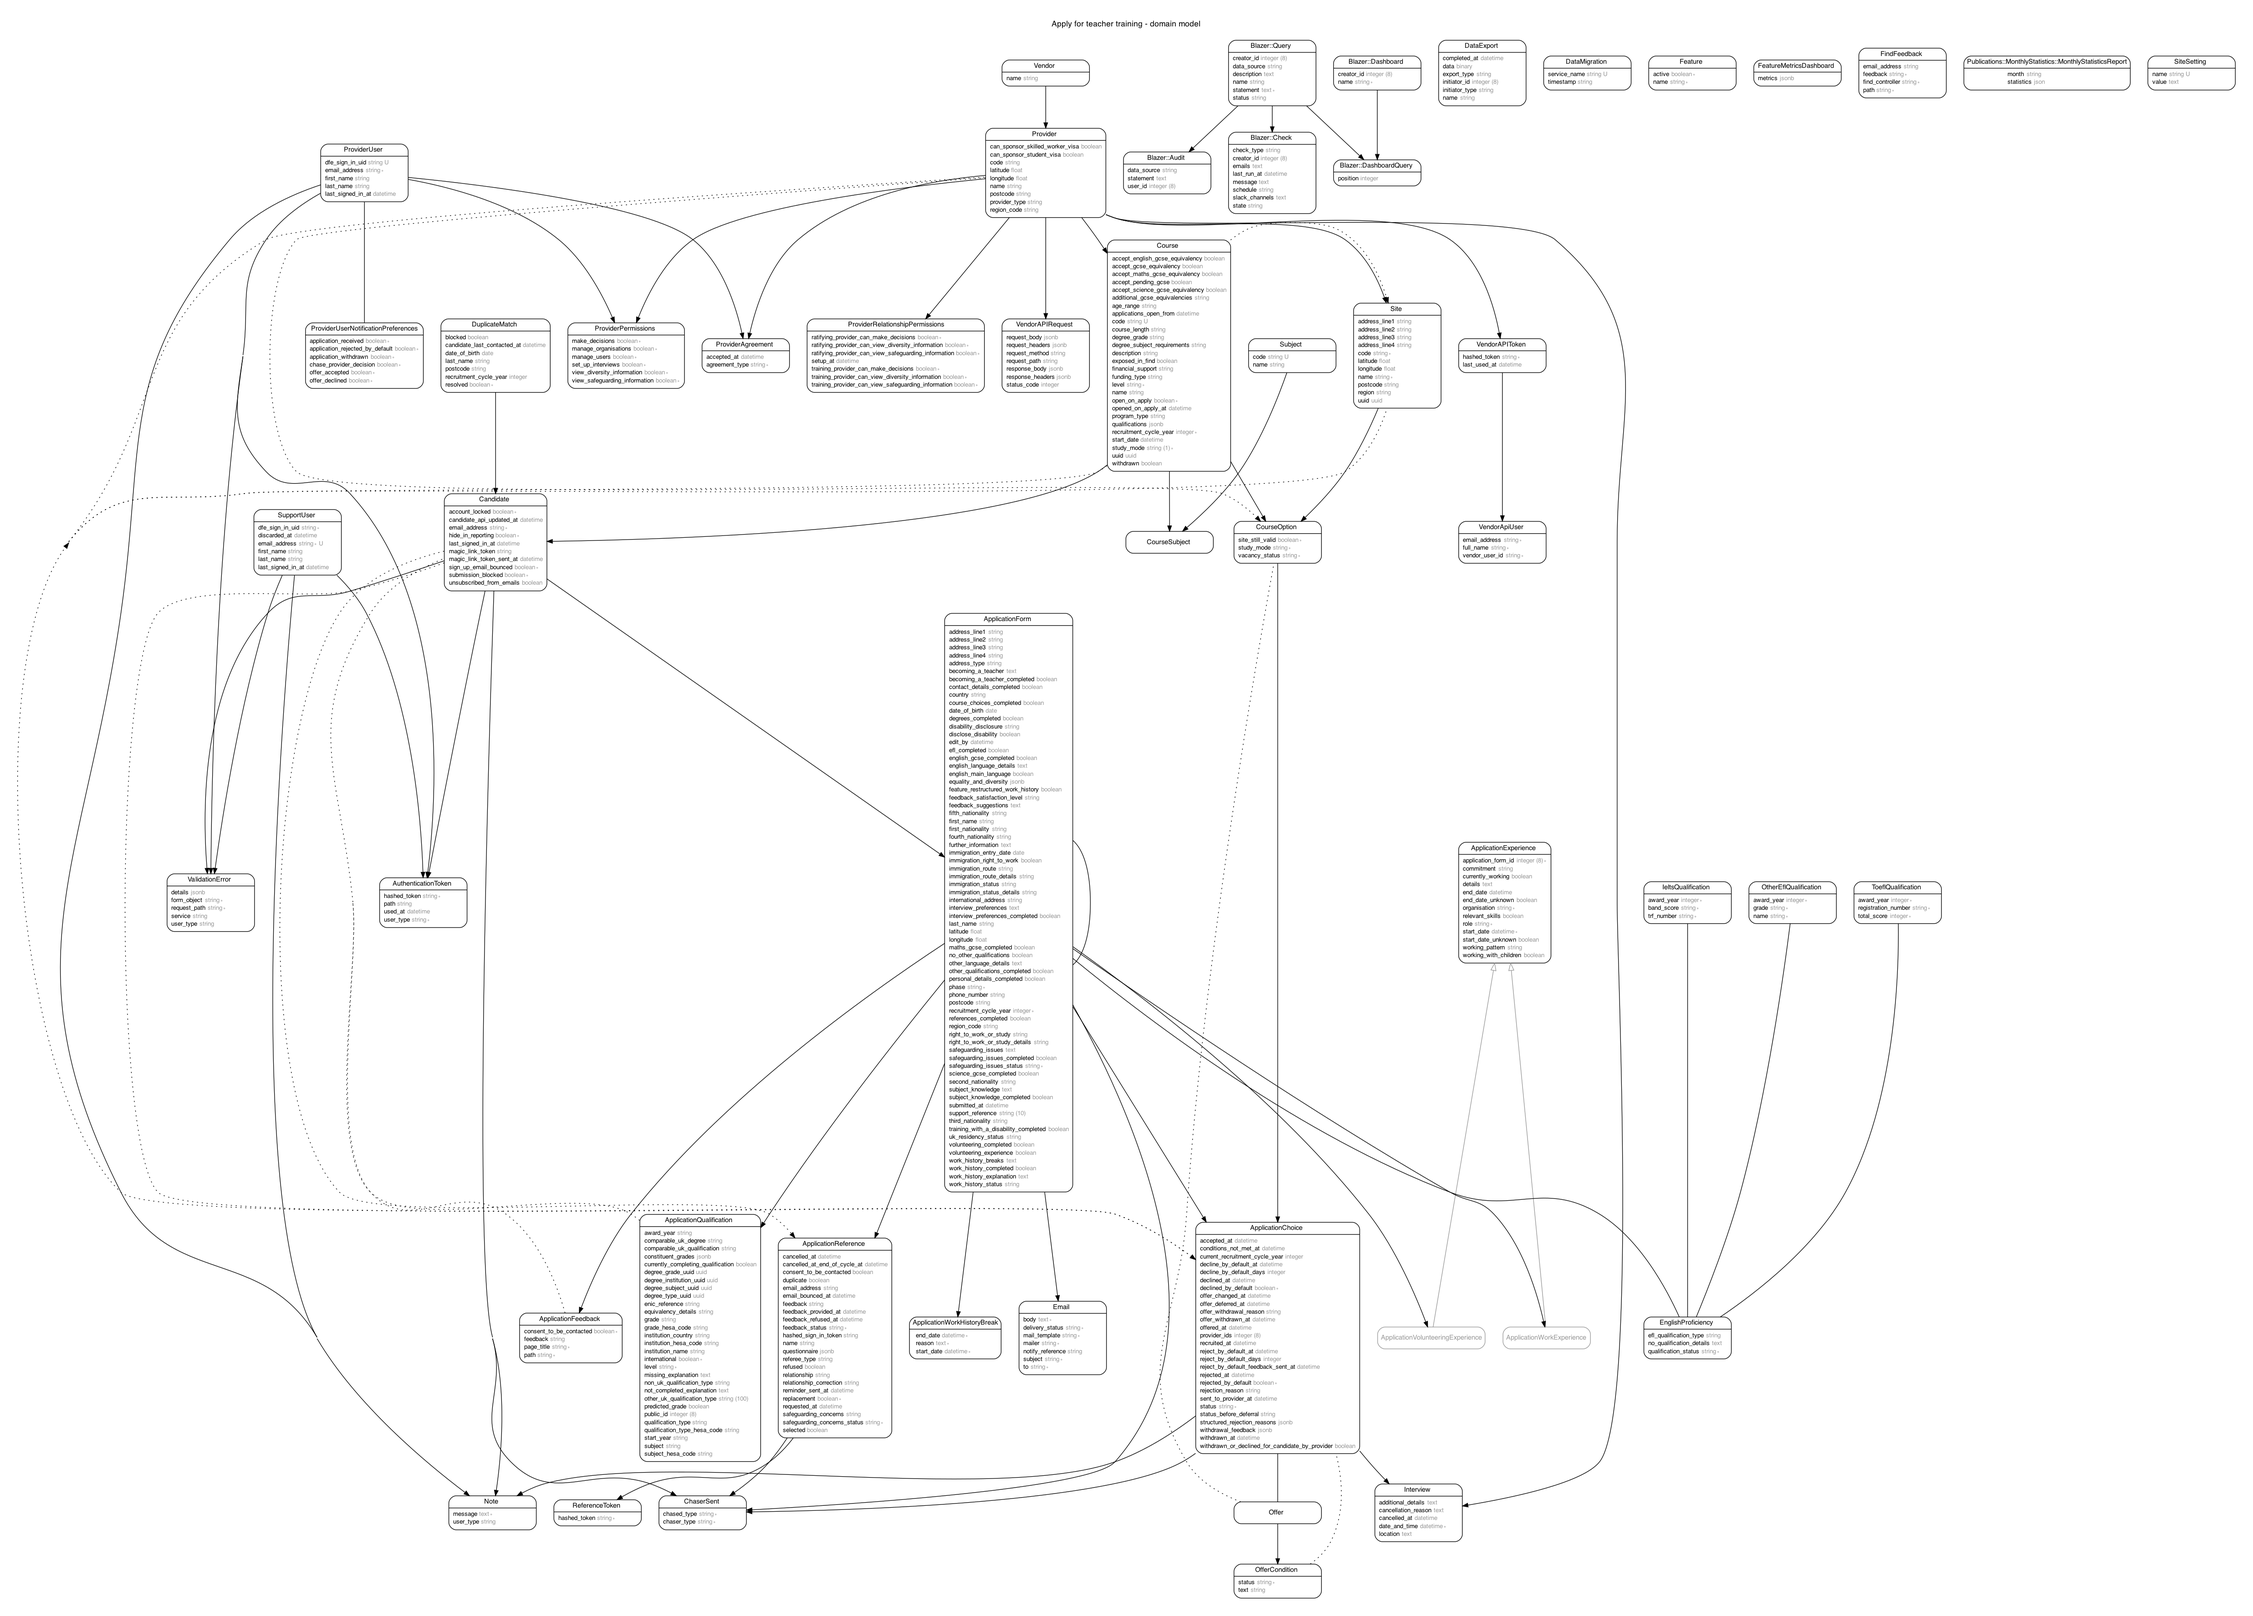
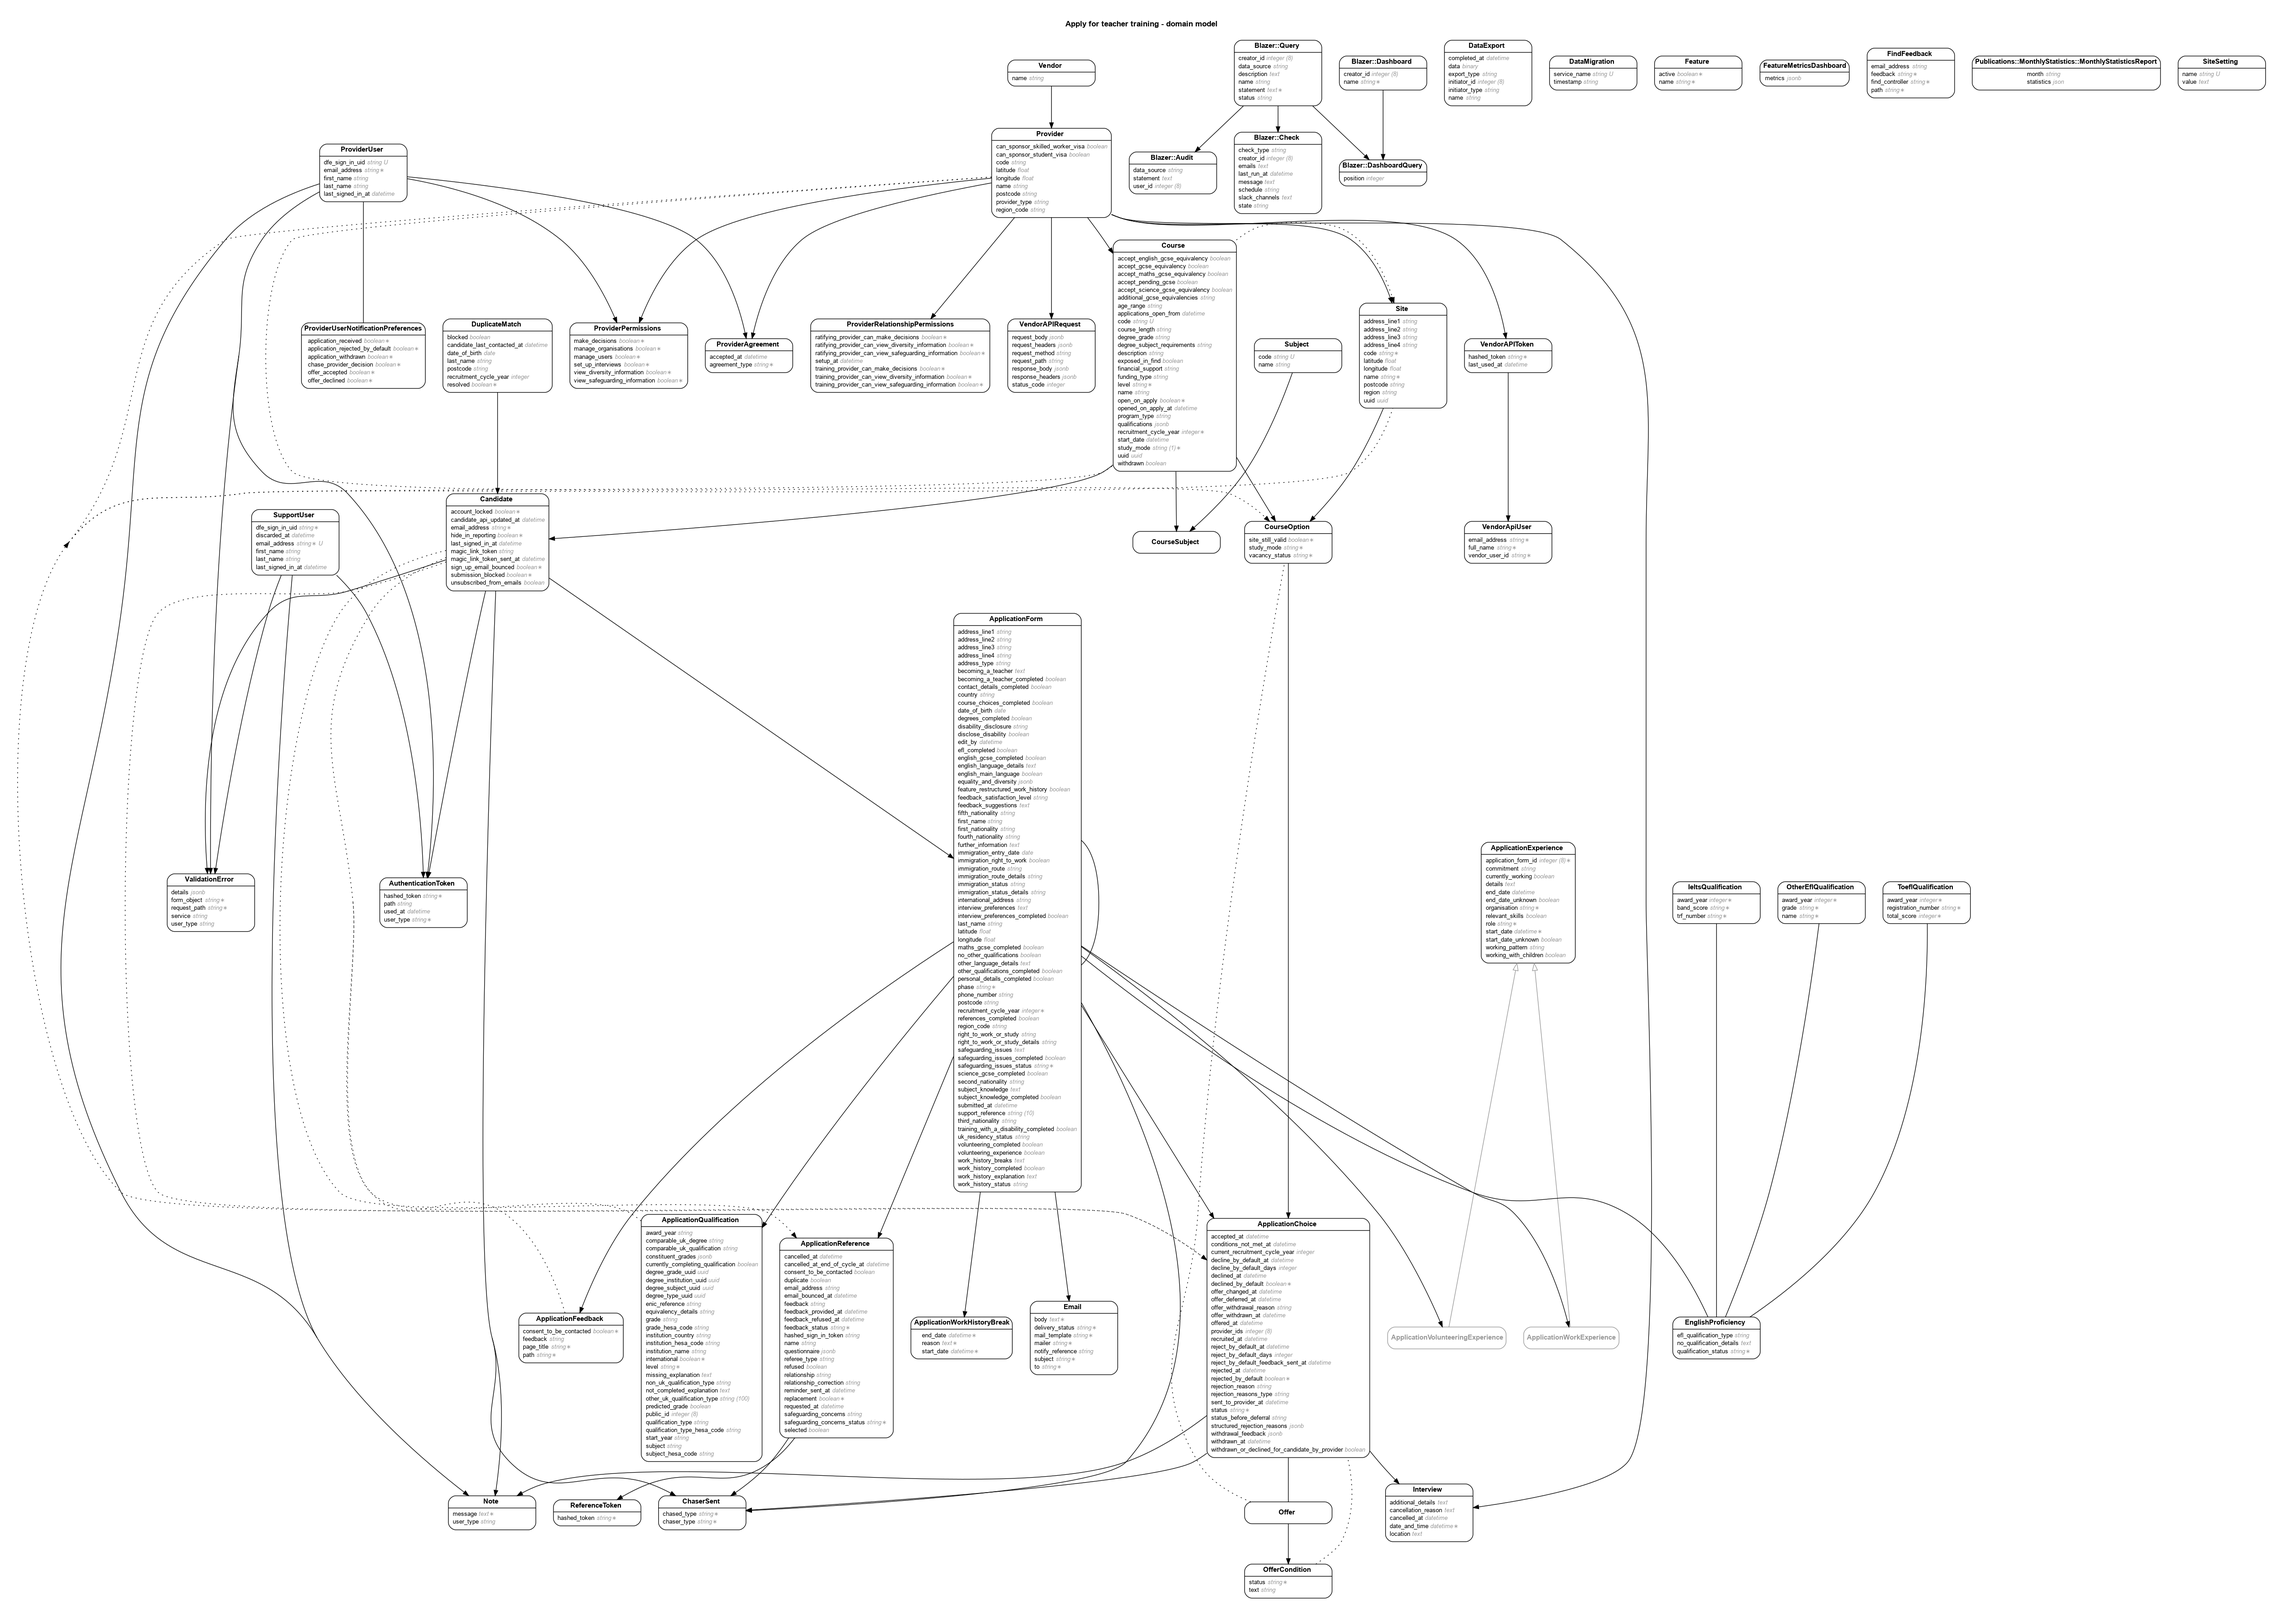
Add rejection_reasons_type to application_choices

diff --git a/db/schema.rb b/db/schema.rb
@@ -10,7 +10,7 @@
 #
 # It's strongly recommended that you check this file into your version control system.
 
-ActiveRecord::Schema.define(version: 2022_03_04_141012) do
+ActiveRecord::Schema.define(version: 2022_03_15_103439) do
 
   create_sequence "qualifications_public_id_seq", start: 120000
 
@@ -51,6 +51,7 @@ ActiveRecord::Schema.define(version: 2022_03_04_141012) do
     t.bigint "provider_ids", default: [], array: true
     t.integer "current_recruitment_cycle_year"
     t.boolean "withdrawn_or_declined_for_candidate_by_provider"
+    t.string "rejection_reasons_type"
     t.index ["application_form_id", "course_option_id"], name: "index_course_option_to_application_form_id", unique: true
     t.index ["application_form_id"], name: "index_application_choices_on_application_form_id"
     t.index ["course_option_id"], name: "index_application_choices_on_course_option_id"

diff --git a/db/migrate/20220315103439_add_rejection_reasons_type_to_application_choices.rb b/db/migrate/20220315103439_add_rejection_reasons_type_to_application_choices.rb
@@ -1,0 +1,5 @@
+class AddRejectionReasonsTypeToApplicationChoices < ActiveRecord::Migration[6.1]
+  def change
+    add_column :application_choices, :rejection_reasons_type, :string
+  end
+end
